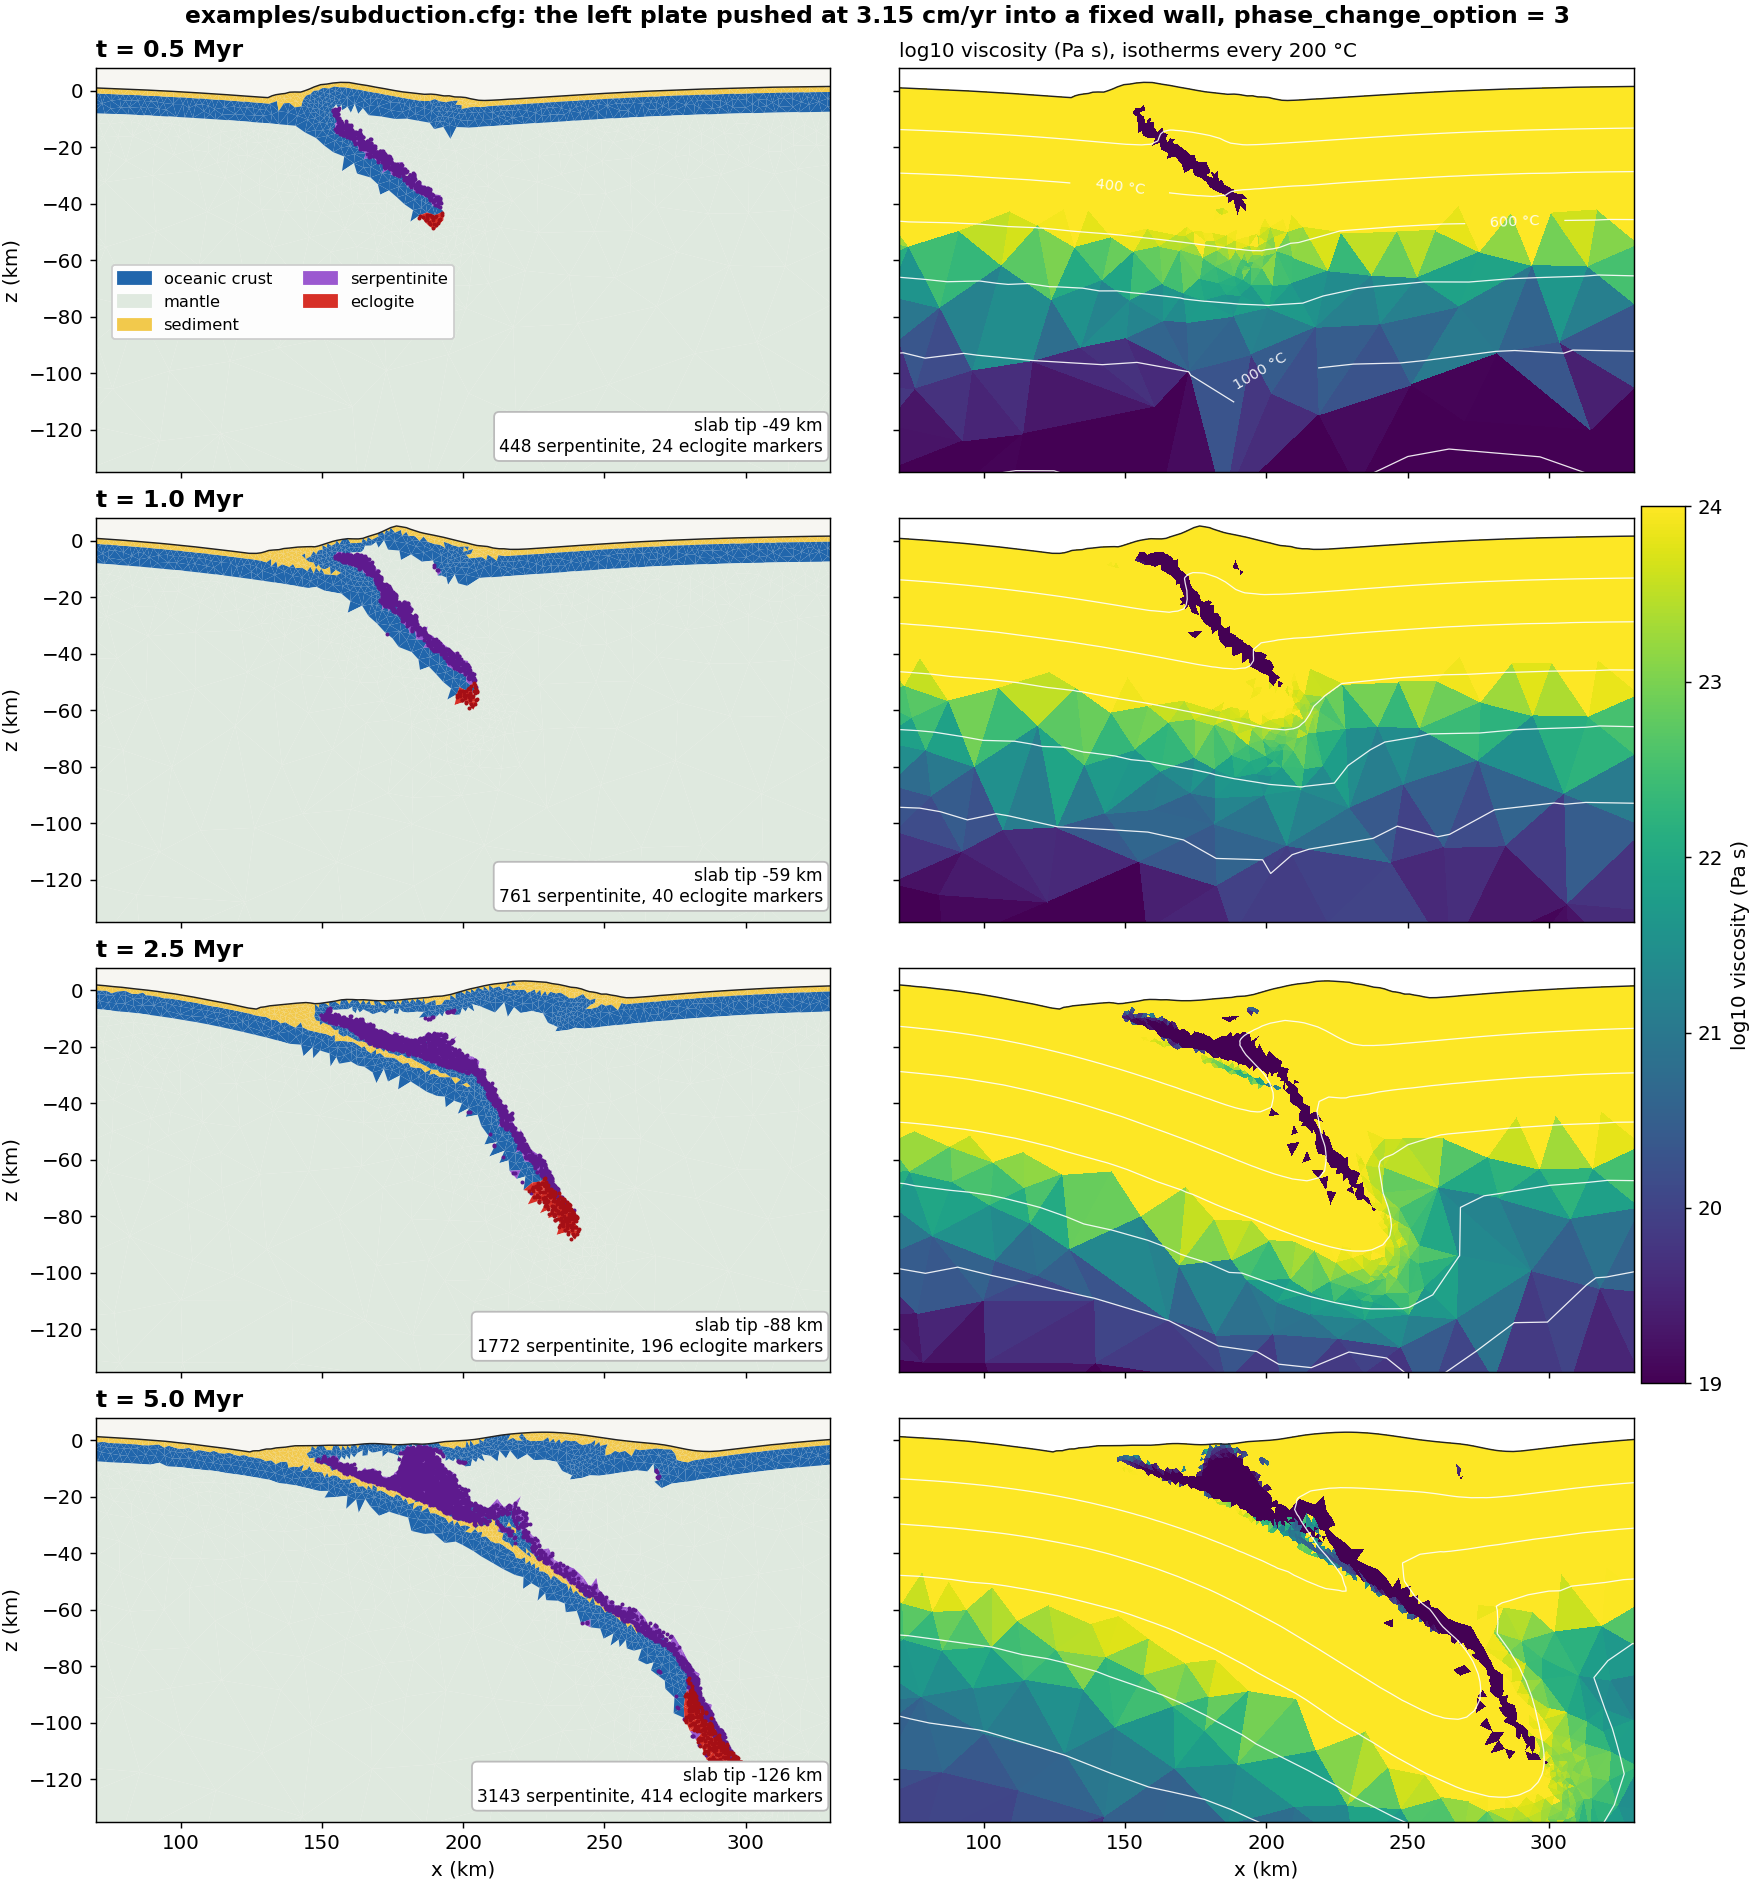
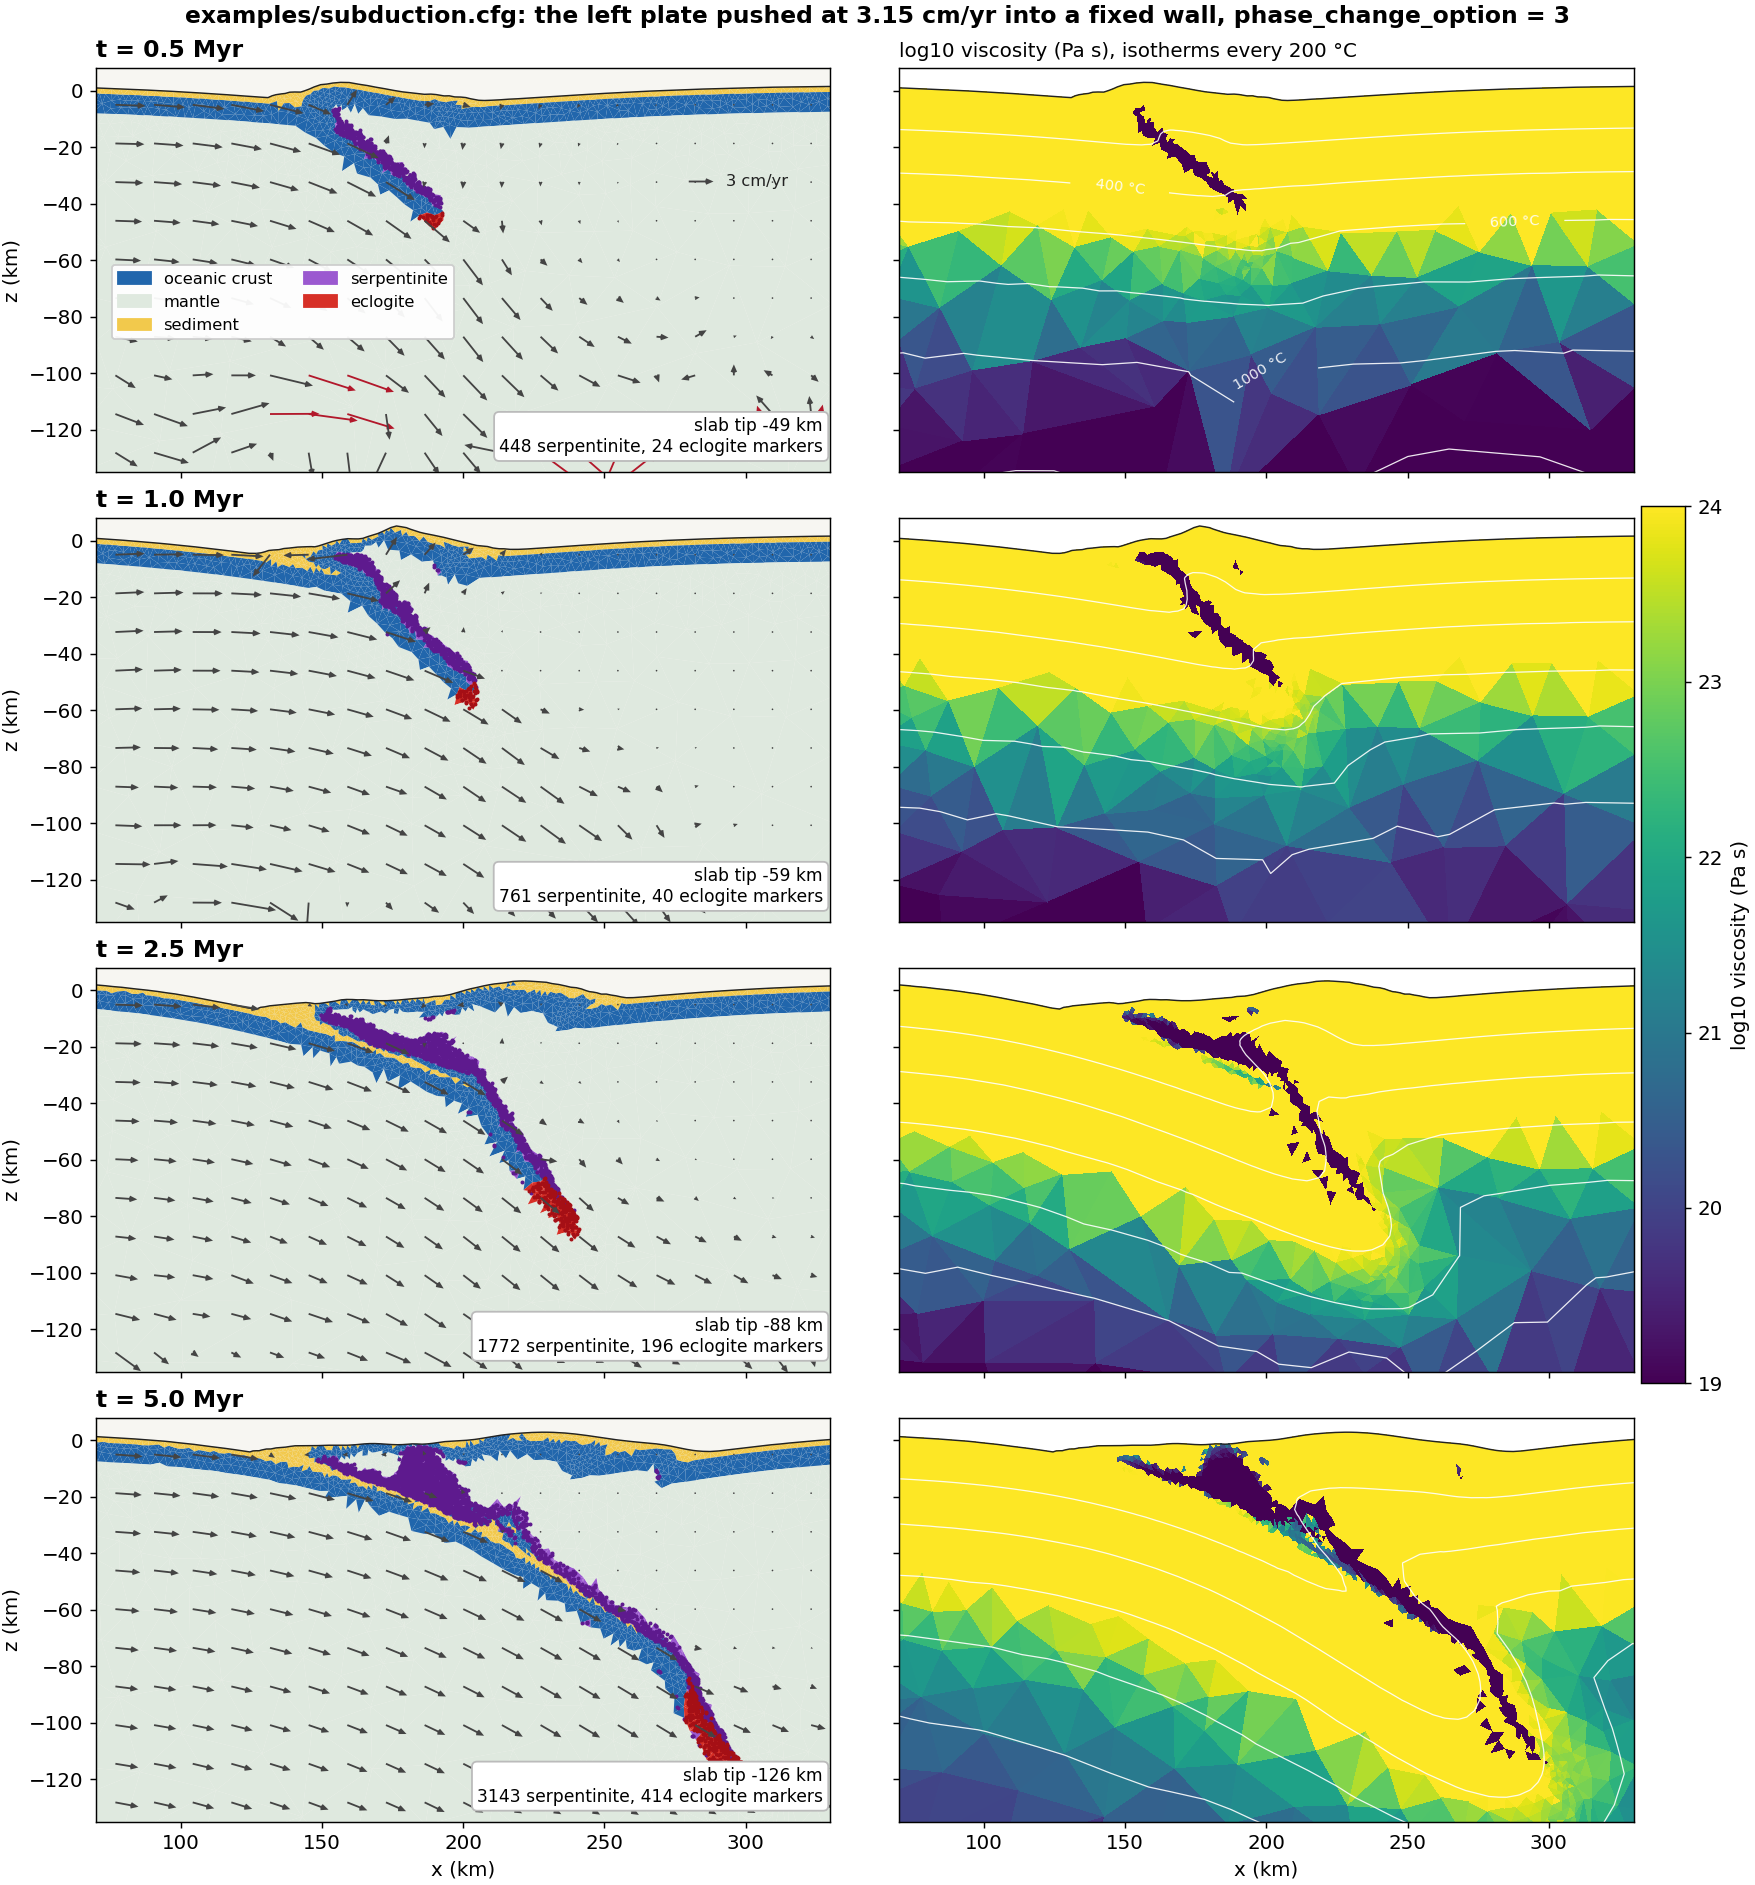
docs: tectonics Part 2 figures with velocity arrows, remeshing history and a restart case
The evolution and thickness figures gain time-averaged velocity arrows,
the thickness figure spans the whole domain with its time-series row
aligned to the panels above, and the reference-run numbers follow the
figures. Two figures are new: the remeshing history of the reference run
(elements by plastic-strain class with each remesh marked by its trigger,
and cumulative counts by trigger) under a "How the mesh keeps up"
subsection, and a troubleshooting case after Exercise 3 showing the
locked no-serpentinite run restarted from its 3.0 Myr checkpoint with
max_boundary_distortion halved to 0.5, which reaches 5 Myr with the
physics unchanged.

diff --git a/docs/tutorial/tectonics.md b/docs/tutorial/tectonics.md
@@ -621,7 +621,7 @@ Open `model-subduction.*.vtu` in ParaView. Fields to look at:
 - **viscosity**, the cold slab against the weak wedge
 - **temperature**, the slab's thermal anomaly and the heated wedge corner
 
-![Material (left) and viscosity with isotherms (right) at 0.5, 1, 2.5 and 5 Myr, cropped to the slab: the tip sinks from 49 to 126 km depth, serpentinite (purple) lines the slab top and fills the wedge corner, eclogite (red) grows from the slab tip](./img/tectonics/subduction-evolution.png)
+![Material with velocity arrows (left) and viscosity with isotherms (right) at 0.5, 1, 2.5 and 5 Myr, cropped to the slab: the tip sinks from 49 to 126 km depth, serpentinite (purple) lines the slab top and fills the wedge corner, eclogite (red) grows from the slab tip](./img/tectonics/subduction-evolution.png)
 
 Things to look for as the run proceeds (the figure is the reference run):
 
@@ -646,6 +646,31 @@ Things to look for as the run proceeds (the figure is the reference run):
 
 {/* Numbers are from the PR #110 head run pr110-ref (analysis/examples/376). */}
 
+#### How the mesh keeps up
+
+![Mesh size and remeshing of the reference run: elements grow from 2603 to 4625 over 206 remeshes, split by plastic strain with each remesh marked by its trigger, and the cumulative remesh count by trigger](./img/tectonics/subduction-remeshing.png)
+
+The mesh nearly doubles over the run, and the left panel shows where the
+new elements go. Elements with no plastic strain fall from 2600 to about
+1900 as the deforming band widens into them, and they stay coarse at a
+median of 4.7 km. Fully softened elements, those past `pls1 = 0.1`, grow from
+none to about 2100, 44 % of the mesh, at a median size of 2.0 km against the
+6 km resolution and the 1.5 km MMG floor. That is the MMG metric at work:
+`mmg_metric_refine_coeff` shrinks the target size where plastic strain has
+accumulated, along the plate interface and in the wedge, and nowhere else.
+
+The 206 remeshes have three triggers, each checked every
+`quality_check_step_interval` steps. A **tiny element** is one whose area has
+dropped below `smallest_size` times the resolution squared. **Low quality** is
+an element quality below `min_quality`, 0.2 here. **Bottom drift** is a bottom
+node more than `max_boundary_distortion` times `resolution`, 6 km here, from
+the 160 km base. The first two are the ordinary triggers and fire throughout.
+Bottom drift dominates the first 2 Myr while the slab tip sinks through the
+lower mantle and the Winkler bottom adjusts, then fades. Each remesh moves
+the element count by only a few tens, because the conservative MMG mode
+freezes elements that are not yielding, distorted or tiny. Remeshing takes
+under 1 % of the wall time; the phase changes take 4 %.
+
 ### Exercise 3: thickness of the serpentinite layer
 
 `serpentinization_thickness` sets how far above the slab top mantle can
@@ -654,11 +679,11 @@ is the rule switched off.
 
 | Run | Thickness | Change | What you should see |
 |-----|-----------|--------|---------------------|
-| None | 0 km | `has_serpentinization = no` | The interface locks. The slab tip stalls near 75 km from 2 Myr on and the slab necks off; both plates thicken and buckle, relief reaches ±7 km, and the run ends at 3.45 Myr in a remeshing failure at the inflow wall |
+| None | 0 km | `has_serpentinization = no` | The interface locks. The slab tip stalls near 80 km from 2 Myr on and the slab necks off; both plates thicken and buckle, relief reaches ±7 km, and the run ends at 3.45 Myr in a remeshing failure at the inflow wall (see the troubleshooting case below) |
 | Reference | 5 km | `serpentinization_thickness = 5e3` (one cell) | Steady subduction to 125 km at 5 Myr; trench 6 km deep at 2 Myr, recovering to 4 km; about 3100 serpentinite and 400 eclogite markers |
 | Thick | 10 km | `serpentinization_thickness = 10e3` (two cells) | Half again as much serpentinite (4600 markers) in a wedge body that reaches further down the slab; trench 1.5 km shallower throughout; slab tip 120 km; 40 % fewer eclogite markers |
 
-![Serpentinite layer none, 5 km and 10 km, all at 3.4 Myr, the last frame the run without serpentinite reached: material and phase-change markers per run, then slab-tip depth, trench depth and marker counts against time to 5 Myr](./img/tectonics/subduction-serp-thickness.png)
+![Serpentinite layer none, 5 km and 10 km across the whole 400 km domain at 3.4 Myr, the last frame the run without serpentinite reached: material, phase-change markers and velocity arrows per run, then slab-tip depth, trench depth and marker counts against time to 5 Myr](./img/tectonics/subduction-serp-thickness.png)
 
 What the comparison shows:
 
@@ -683,6 +708,46 @@ scatter is unknown. The locking of the 0 km case is robust, since it starts
 by 1 Myr and grows; the 1.5 km trench difference between 5 and 10 km should
 be read as suggestive until a perturbed twin bounds it.
 
+### Troubleshooting case: carrying on the run that locked up
+
+The 0 km run above stops at 3.45 Myr with
+
+```
+[DES exit 41] mesh generation
+```
+
+after MMG reports that it cannot compute a boundary normal at a tiny element
+on the inflow wall, 96 km deep. The log before the failure shows what led to
+it: of the last 40 remeshes, 34 were triggered by bottom nodes drifting more
+than `max_boundary_distortion × resolution` = 6 km from the 160 km base,
+because the stacked plates load the Winkler bottom unevenly. Each of those
+remeshes flattens the base back by up to 6 km in one go, and the mesh near the
+wall degrades a little further each time until MMG gives up.
+
+The run can be carried on from its last good checkpoint, frame 60 at 3.0 Myr,
+with the base corrected in smaller steps:
+
+```cfg
+is_restarting = yes
+restarting_from_modelname = model-subduction
+restarting_from_frame = 60
+max_boundary_distortion = 0.5     # 3 km instead of 6
+```
+
+With that one change the restart runs through to 5 Myr, remeshing 58 times in
+the remaining 2 Myr, 51 of them still bottom-drift triggers, but each
+correcting half as much. The physics does not change: the slab stays stalled
+near 80 km, the trench stays near 7 km deep and the plates keep buckling.
+Only the mesh survives.
+
+![The restarted run at 5 Myr, and trench depth and remesh count of the run as shipped against its restart with the halved boundary-distortion limit](./img/tectonics/subduction-restart-fix.png)
+
+Two cautions. Pick a restart frame that is not a remesh step, since a
+checkpoint written on one is not bit-recoverable. And a single restart that
+survives does not prove the parameter was the cure, because a restart is a new
+realization of a chaotic run; a control restart with the original setting
+would be needed for that.
+
 Change one parameter at a time, and keep a log of what you changed.
 
 ## Troubleshooting
@@ -699,7 +764,7 @@ Change one parameter at a time, and keep a log of what you changed.
 | Stops at input: `serpentinization_thickness` too small | 2 | It must be at least one grid cell, `resolution × vt_size` |
 | `remeshing_option 13` refused | 2 | Restored side walls need an MMG build: `make ndims=2 usemmg=1` |
 | Serpentinite appears far from the slab | 2 | The rule has no temperature gate below 150 km; a slab bend can make a whole grid column crust-dominant. Set `serpentinization_crust_margin >= 0` to confine it |
-| Slab stalls, plates thicken, then a remeshing error | 2 | The interface is too strong: this is the `has_serpentinization = no` case of Exercise 3. Check `mattype_serpentinite` is set and the sediment and serpentinite friction angles are low |
+| Slab stalls, plates thicken, then `[DES exit 41] mesh generation` | 2 | The interface is too strong: this is the `has_serpentinization = no` case of Exercise 3. Check `mattype_serpentinite` is set and the sediment and serpentinite friction angles are low. To carry such a run on anyway, restart from the last checkpoint with `max_boundary_distortion` halved to 0.5 |
 
 ## Next Steps
 
